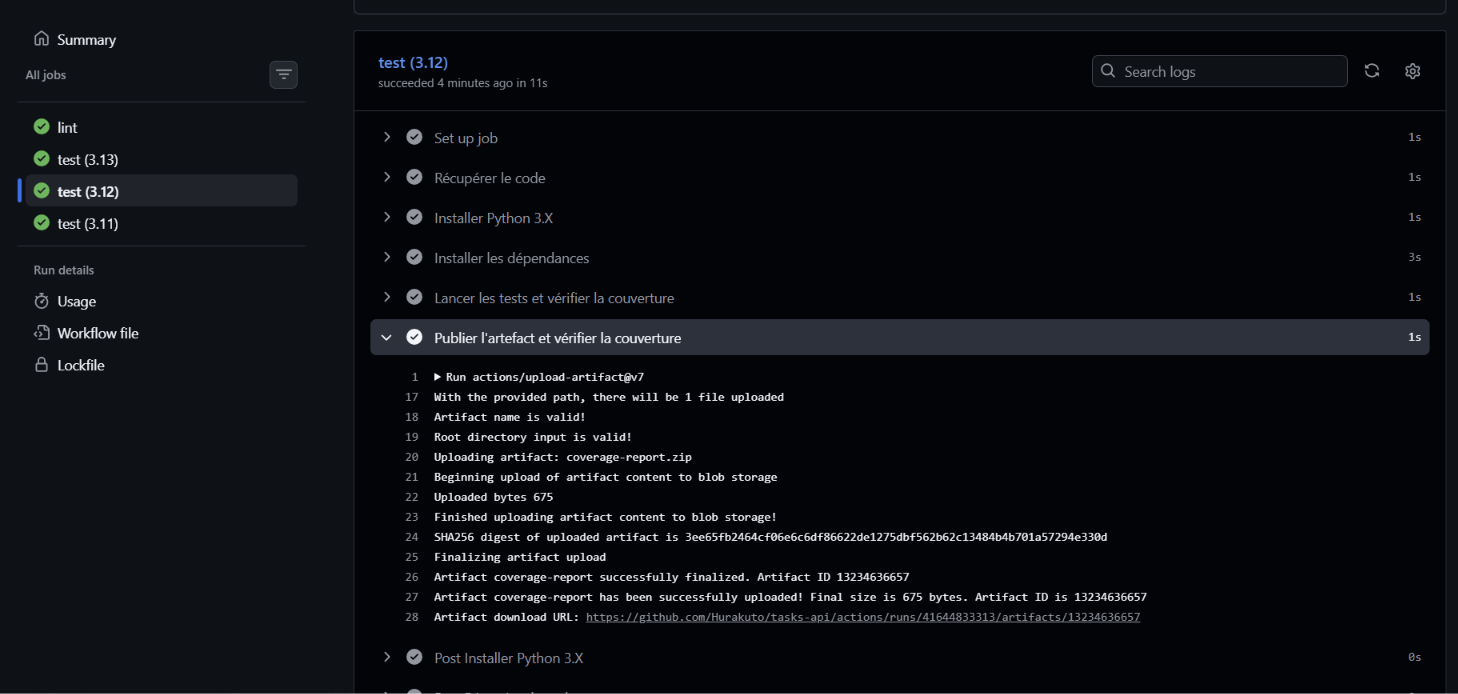
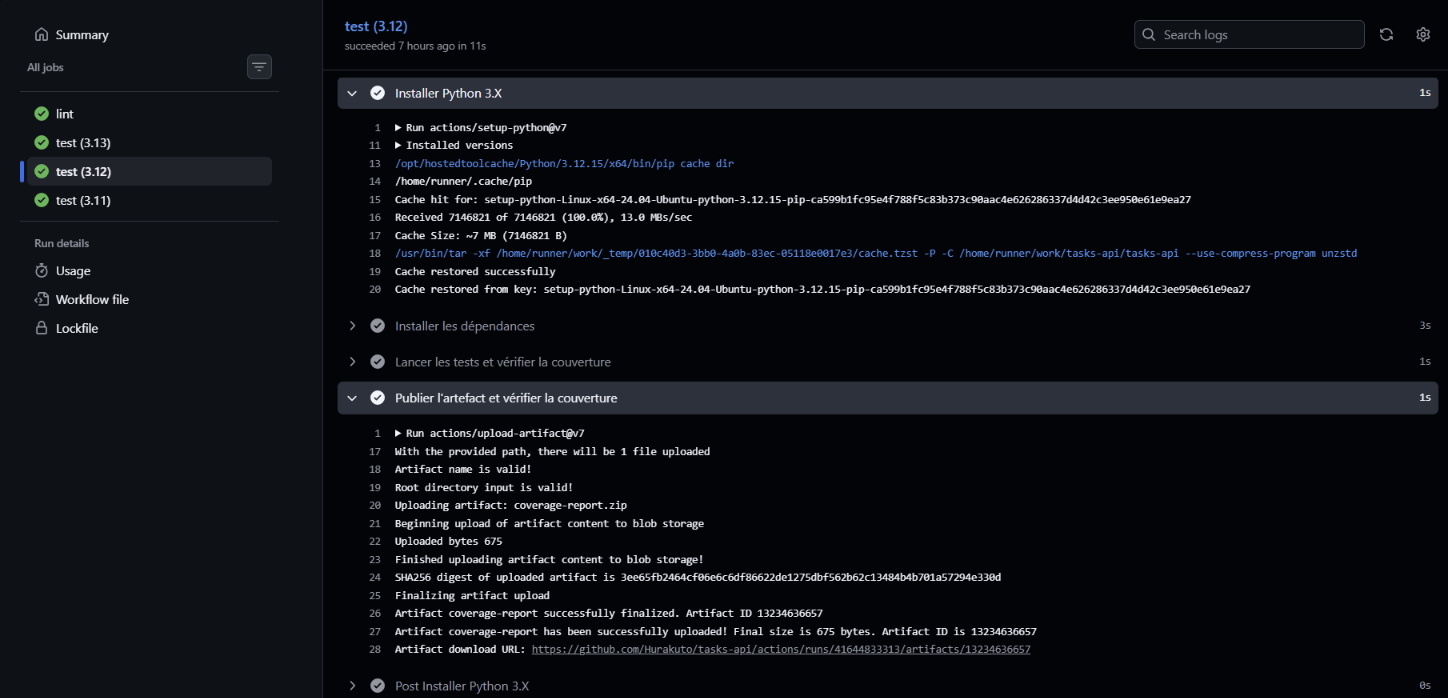
push from entree-a

diff --git a/CHANGELOG.md b/CHANGELOG.md
@@ -1,5 +1,5 @@
 # Journal des changements
 
 ## Non publié
-
+Linux is not cool
 - Version initiale de l'API tasks-api.
